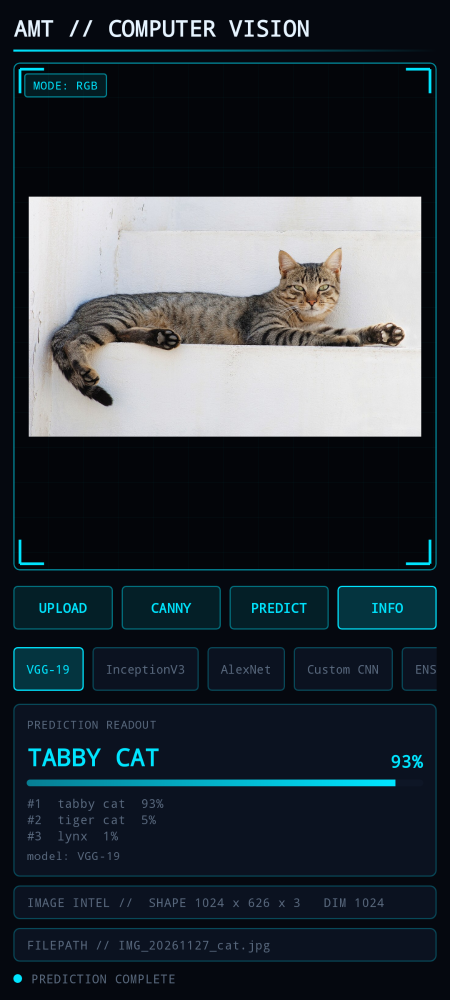
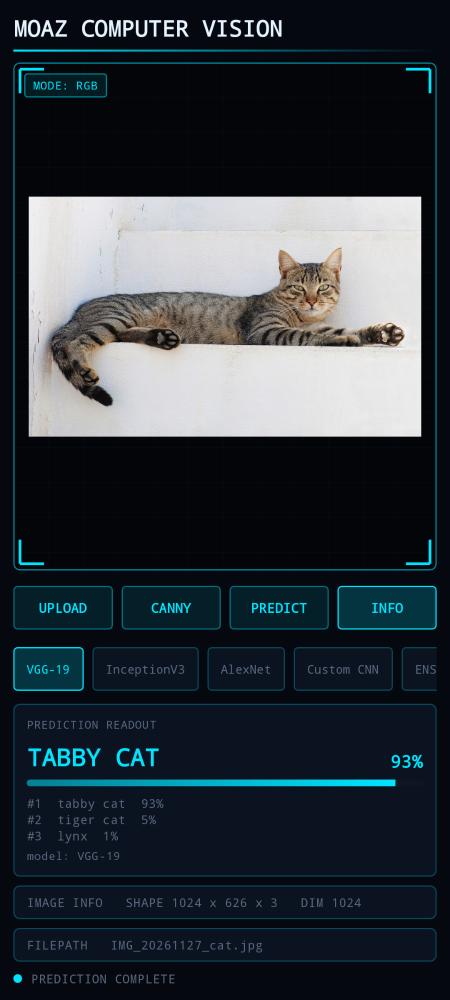
Rebrand UI to MOAZ and remove decorative // separators

diff --git a/app/src/main/java/com/amt/vision/ui/MainScreen.kt b/app/src/main/java/com/amt/vision/ui/MainScreen.kt
@@ -90,7 +90,7 @@ fun MainScreen(
 private fun TopBar() {
     Column {
         Text(
-            "AMT // COMPUTER VISION",
+            "MOAZ COMPUTER VISION",
             fontFamily = FontFamily.Monospace,
             fontWeight = FontWeight.Bold,
             fontSize = 20.sp,
@@ -126,7 +126,7 @@ private fun HudViewport(state: UiState, modifier: Modifier = Modifier) {
         } else {
             Box(Modifier.fillMaxSize(), contentAlignment = Alignment.Center) {
                 Text(
-                    "NO SIGNAL // UPLOAD AN IMAGE",
+                    "UPLOAD AN IMAGE",
                     fontFamily = FontFamily.Monospace,
                     fontSize = 13.sp,
                     color = TextDim
@@ -327,7 +327,7 @@ private fun InfoRow(info: String?) {
         shape = RoundedCornerShape(6.dp)
     ) {
         Text(
-            "IMAGE INTEL //  SHAPE ${info ?: "-"}   DIM ${info?.substringBefore(" x ") ?: "-"}",
+            "IMAGE INFO   SHAPE ${info ?: "-"}   DIM ${info?.substringBefore(" x ") ?: "-"}",
             Modifier.padding(horizontal = 12.dp, vertical = 8.dp),
             fontFamily = FontFamily.Monospace,
             fontSize = 11.sp,
@@ -345,7 +345,7 @@ private fun PathBar(path: String?) {
         shape = RoundedCornerShape(6.dp)
     ) {
         Text(
-            "FILEPATH // ${path ?: "-"}",
+            "FILEPATH   ${path ?: "-"}",
             Modifier.padding(horizontal = 12.dp, vertical = 8.dp),
             fontFamily = FontFamily.Monospace,
             fontSize = 11.sp,

diff --git a/README.md b/README.md
@@ -1,4 +1,4 @@
-# AMT // Computer Vision (Android)
+# MOAZ Computer Vision (Android)
 
 Native Android version of the AMT computer-vision course task: an image
 classifier with a gaming HUD interface, written in **Kotlin + Jetpack Compose**.
